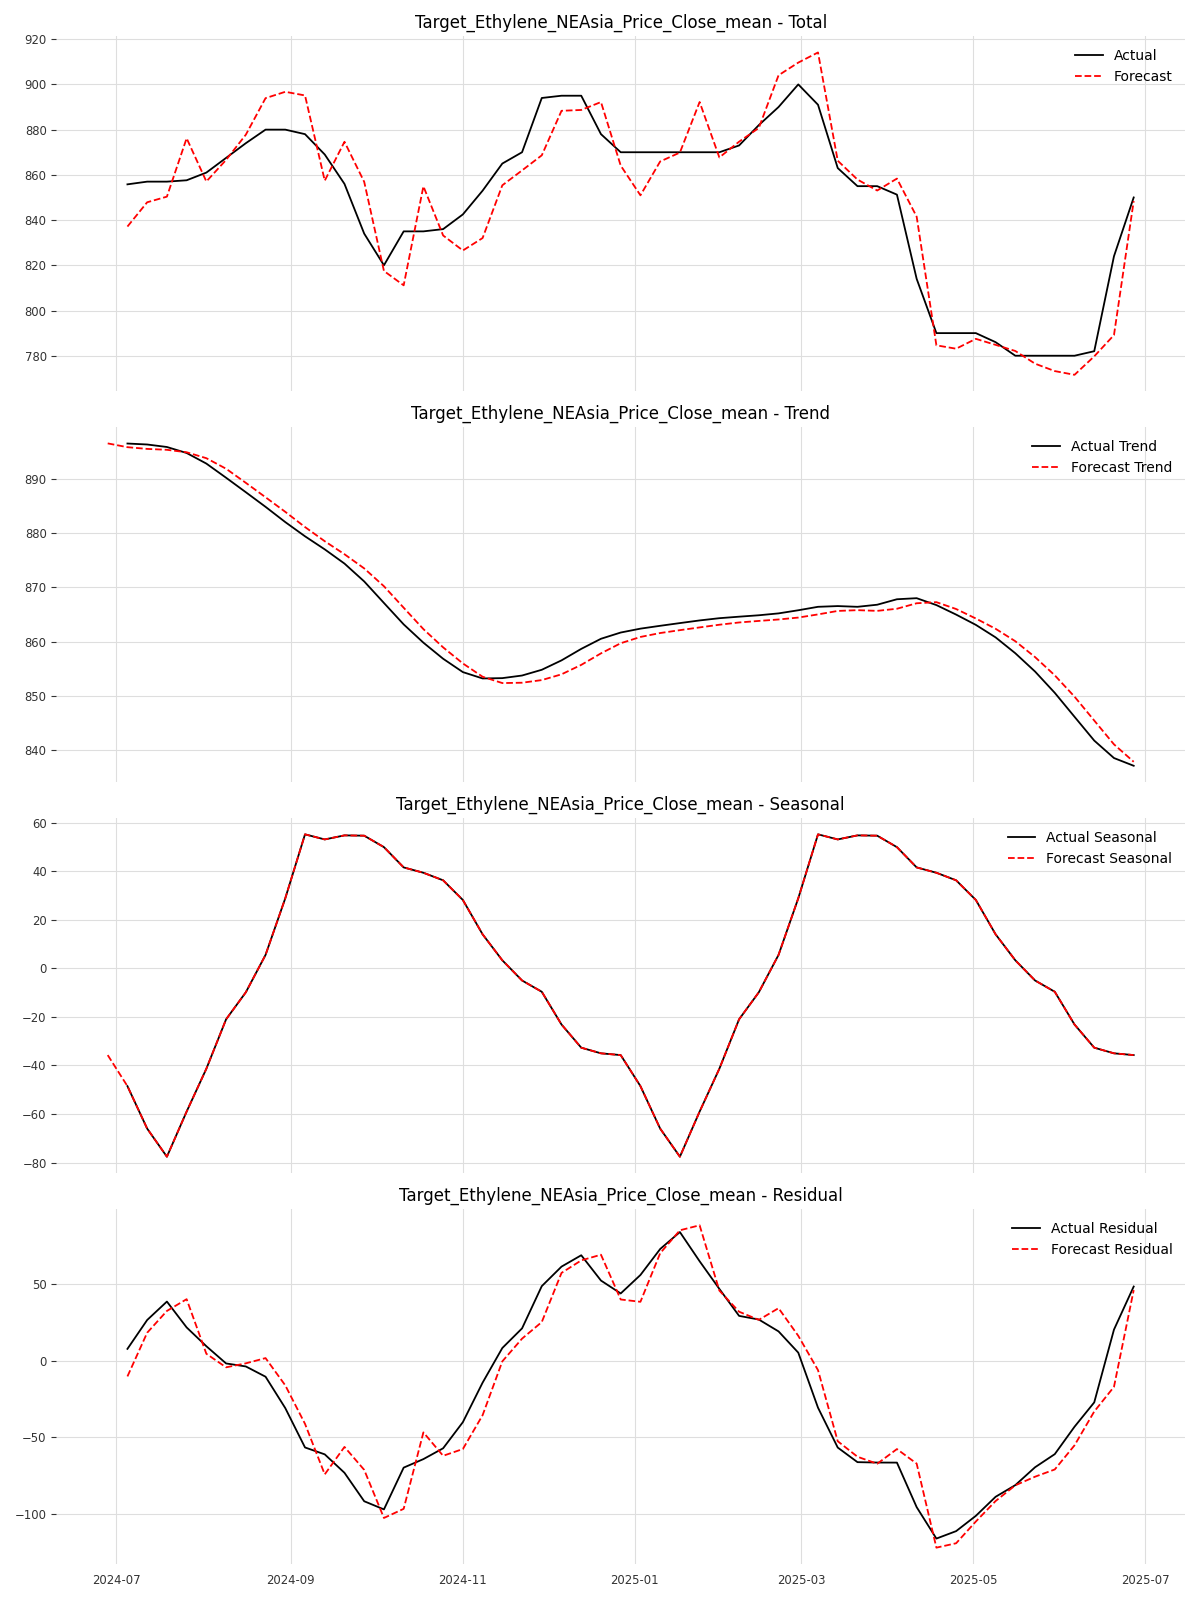
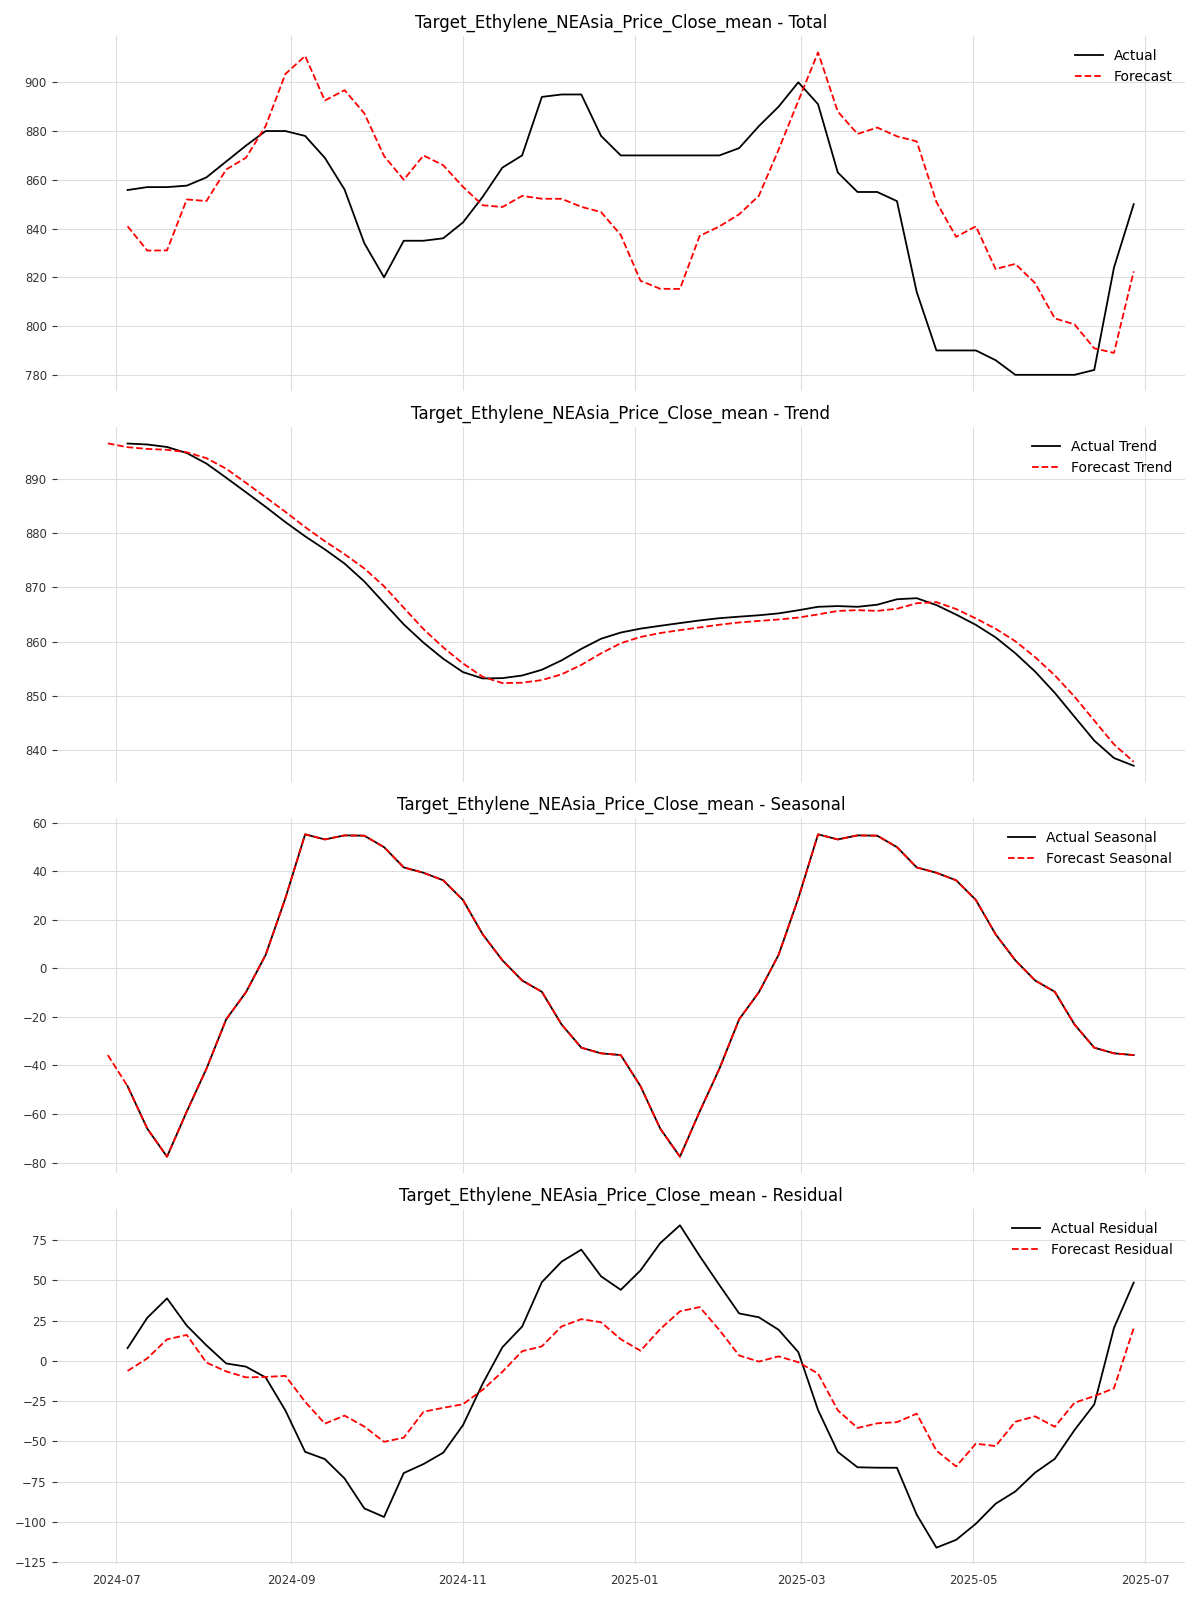
Apply differencing on both targets

diff --git a/varima_forecasting.py b/varima_forecasting.py
@@ -15,7 +15,7 @@ import seaborn as sns
 from darts import TimeSeries
 from darts.models import VARIMA, Theta, NaiveSeasonal
 from darts.metrics import smape, mase, mae, mse, rmse
-from darts.dataprocessing.transformers import Scaler, MissingValuesFiller
+from darts.dataprocessing.transformers import Scaler, Diff, MissingValuesFiller
 from darts.utils.statistics import check_seasonality
 from darts.utils.utils import SeasonalityMode
 
@@ -398,7 +398,7 @@ def run_varima_pipeline():
     # 2. Data Preparation
     prep = DataPreparation(targets)
     train_df, test_df = prep.impute_missing(train_df, test_df)
-    
+
     # Decompose (on combined data to ensure continuity, then split)
     full_df = pd.concat([train_df, test_df])
     components = prep.decompose(full_df, period=SEASONAL_PERIOD)
@@ -416,16 +416,22 @@ def run_varima_pipeline():
             test_df.index,
             col_name='residual'
         )
+        full_res_multi = train_res_multi.append(test_res_multi)
     except ValueError as e:
         logger.error(str(e))
         return
+
+    # Differencing
+    diff_trasformer = Diff()
+    train_res_multi = diff_trasformer.fit_transform(train_res_multi)
+    full_res_multi = diff_trasformer.transform(full_res_multi)
         
     # Hyperparameter Tuning for VARIMA
     parameters = {
         'p': [1, 2, 3],
-        'd': [0, 1],
+        'd': [0],
         'q': [0, 1, 2],
-        'trend': ['n']
+        'trend': ['n', 'c']
     }
     
     try:
@@ -442,8 +448,6 @@ def run_varima_pipeline():
     best_model.fit(train_res_multi)
     
     # Historical Forecasts (on Test set)
-    full_res_multi = train_res_multi.append(test_res_multi)
-    
     hist_pred_res = best_model.historical_forecasts(
         series=full_res_multi,
         start=len(train_res_multi),
@@ -452,6 +456,11 @@ def run_varima_pipeline():
         retrain=False,
         verbose=True
     )
+
+    # Inverse differencing
+    combined_diff = train_res_multi.append(hist_pred_res)
+    combined_inv = diff_trasformer.inverse_transform(combined_diff)
+    hist_pred_res = combined_inv.slice(hist_pred_res.start_time(), hist_pred_res.end_time())
     
     # Reconstruct predictions
     for i, target in enumerate(targets):
